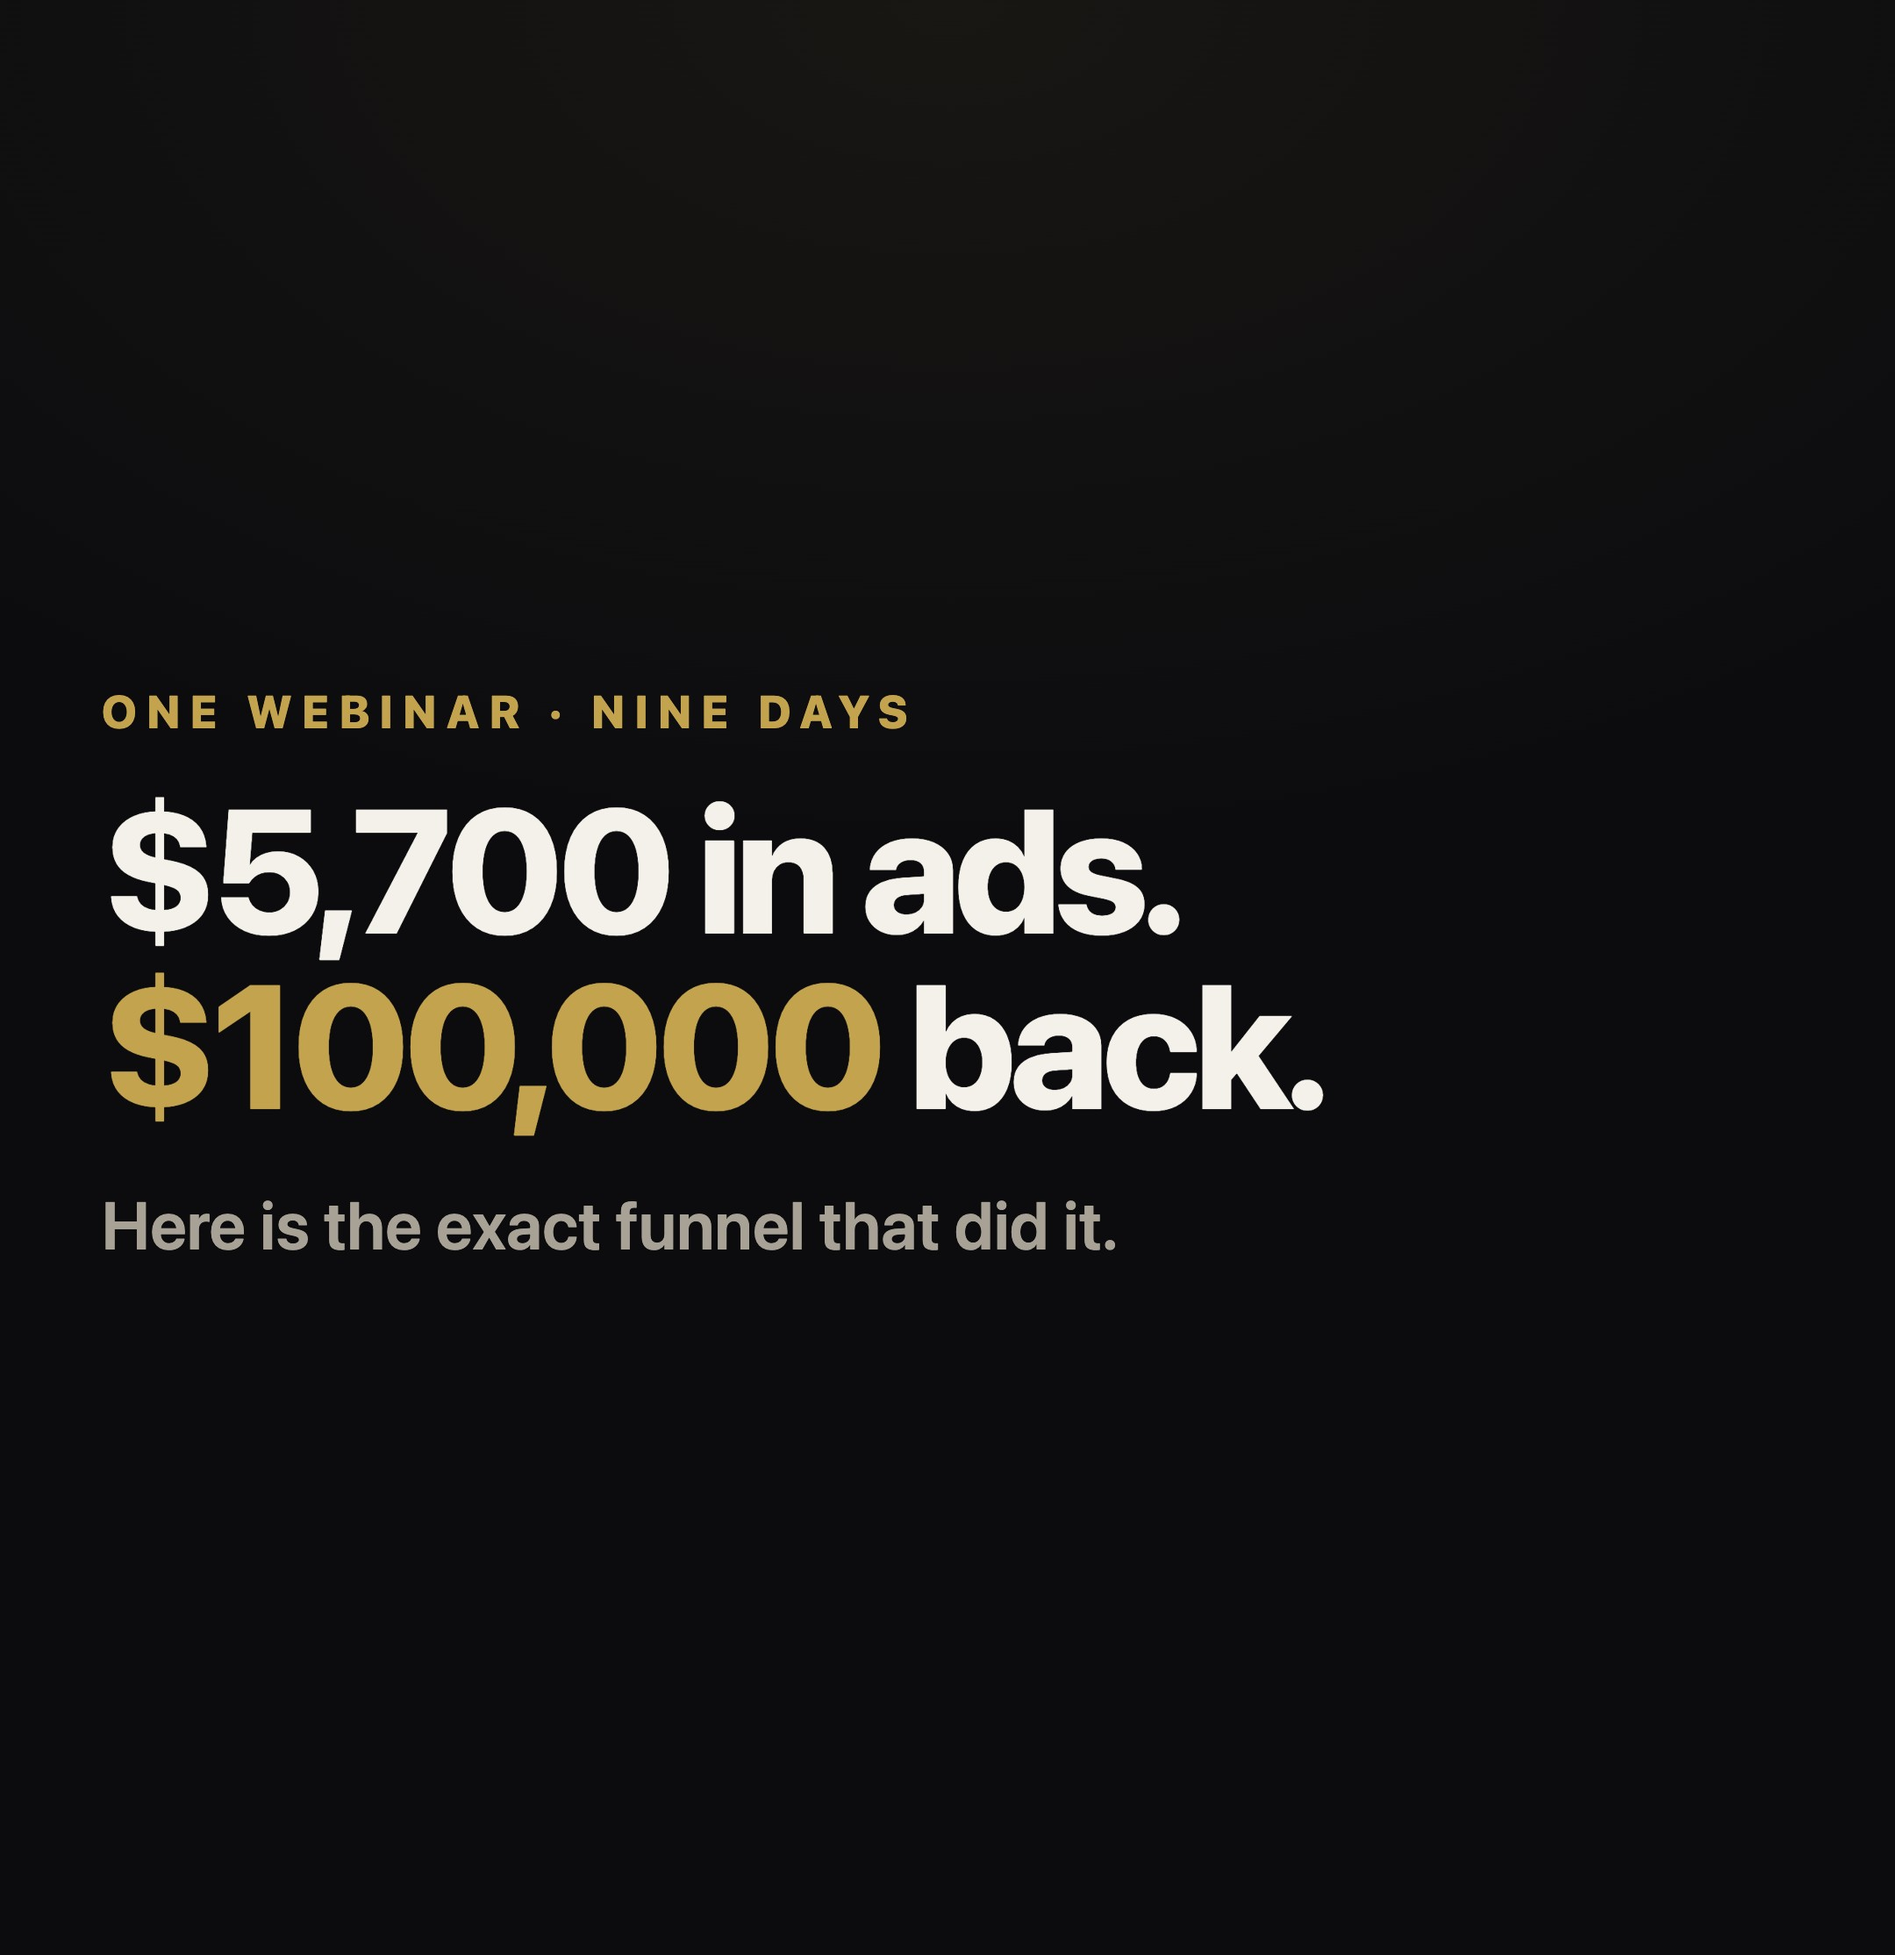
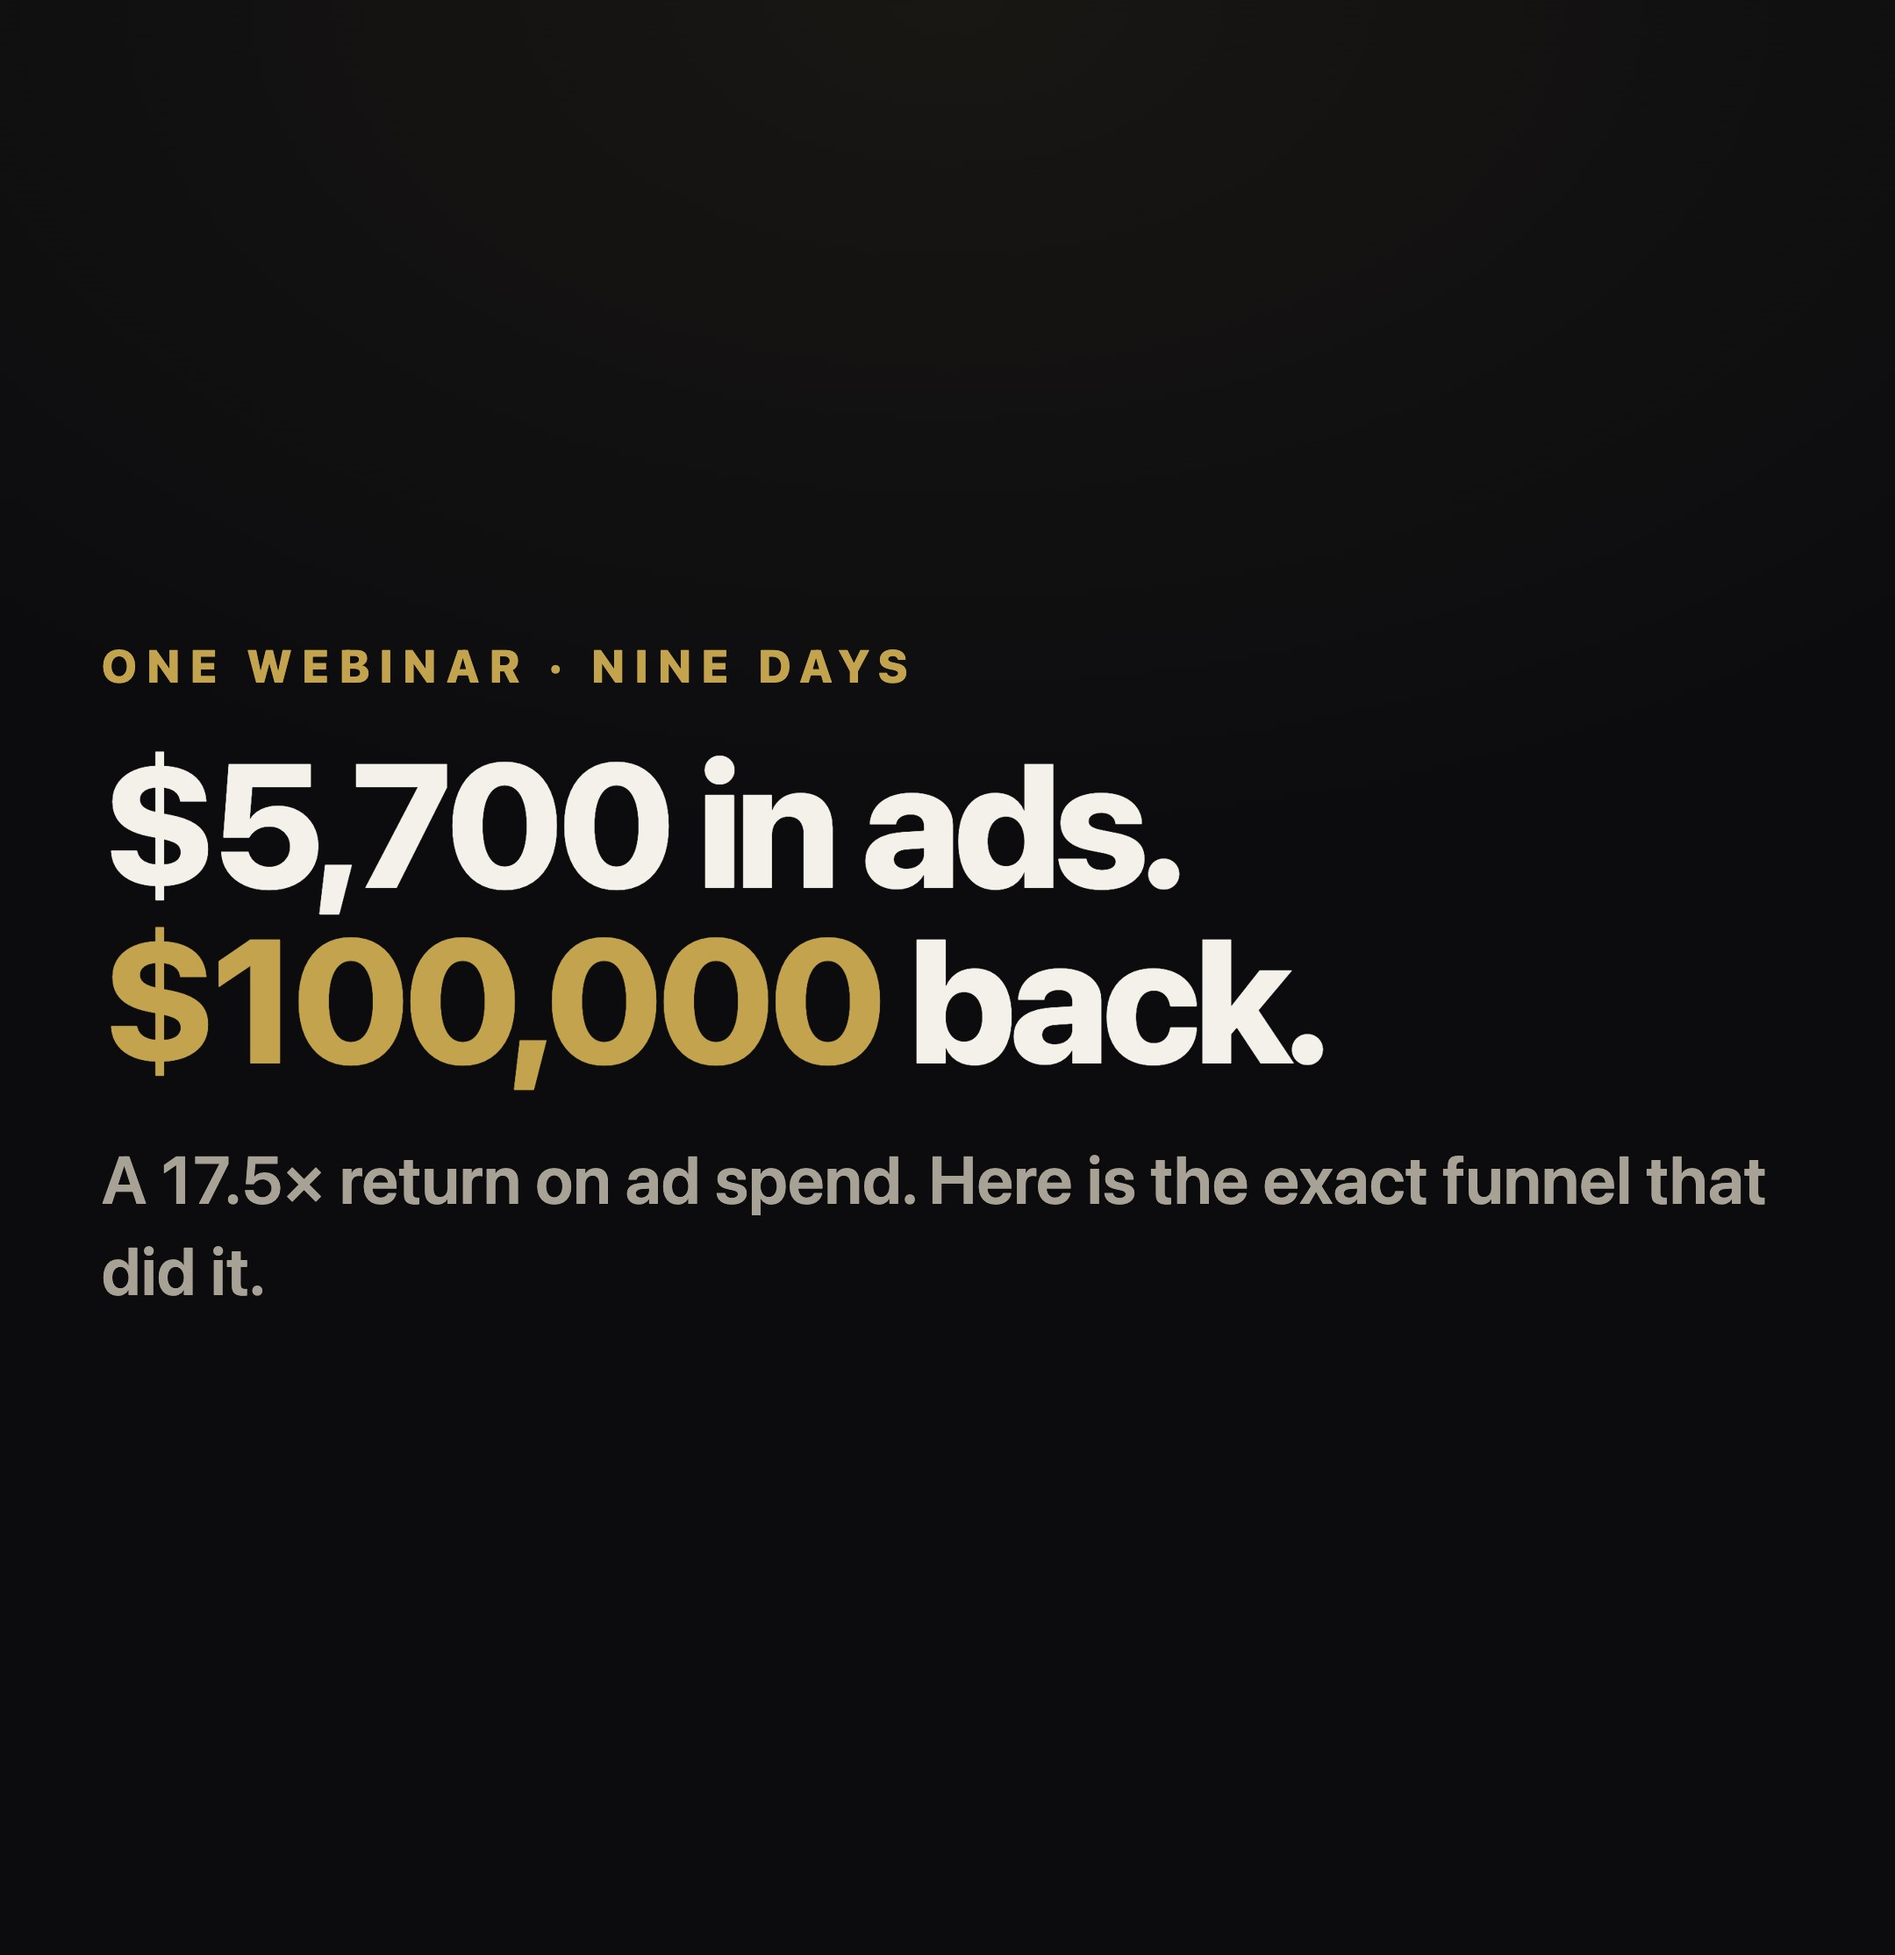
Funnel board: ROAS in the hook, native architecture diagram, real step-2 options, FUNNEL CTA

Changed region(s): [[0.031, 0.3097, 0.9306, 0.6813]]

diff --git a/frames-funnel.html b/frames-funnel.html
@@ -56,6 +56,17 @@
   .q .opts span{font-family:var(--mono);font-size:28px;font-weight:700;padding:12px 20px;border-radius:10px;
     border:2px solid rgba(255,255,255,.14);color:var(--mut)}
   .q .opts span.win{border-color:var(--gold);color:#0c0c0f;background:var(--gold)}
+
+  /* simplified architecture diagram, sized for the board */
+  .dg{display:flex;flex-direction:column;align-items:center;gap:0;margin-top:4px}
+  .dg .lvl{display:flex;gap:14px;justify-content:center;width:100%}
+  .dg .bx{border:3px solid rgba(196,163,79,.45);background:rgba(196,163,79,.08);border-radius:16px;
+    padding:20px 14px;text-align:center;flex:1}
+  .dg .bx.plain{border-color:rgba(255,255,255,.16);background:rgba(255,255,255,.03)}
+  .dg .bx .bt{font-size:30px;font-weight:800;line-height:1.15}
+  .dg .bx .bs{font-size:23px;color:var(--mut);font-weight:600;margin-top:7px;line-height:1.25}
+  .dg .cn{height:52px;width:100%;position:relative}
+  .dg .cn svg{position:absolute;inset:0;width:100%;height:100%;overflow:visible}
 </style>
 </head>
 <body>
@@ -64,22 +75,47 @@
 <div class="f" id="g1">
   <div class="eb">One webinar · nine days</div>
   <h1>$5,700 in ads. <span>$100,000</span> back.</h1>
-  <div class="sub">Here is the exact funnel that did it.</div>
+  <div class="sub">A 17.5&times; return on ad spend. Here is the exact funnel that did it.</div>
 </div>
 
-<!-- g2 · the whole funnel -->
-<div class="f" id="g2">
-  <div class="eb">The whole thing, five steps</div>
-  <div class="fun">
-    <div class="fs"><span class="ix">01</span><span class="nm">Meta ad</span><span class="vv">17 ads</span></div>
-    <div class="arw">▼</div>
-    <div class="fs hi"><span class="ix">02</span><span class="nm">Registration page</span><span class="vv">~190</span></div>
-    <div class="arw">▼</div>
-    <div class="fs"><span class="ix">03</span><span class="nm">Live webinar</span><span class="vv">90 min</span></div>
-    <div class="arw">▼</div>
-    <div class="fs"><span class="ix">04</span><span class="nm">Application &amp; call</span><span class="vv">16 held</span></div>
-    <div class="arw">▼</div>
-    <div class="fs hi"><span class="ix">05</span><span class="nm">Enrolment</span><span class="vv">6</span></div>
+<!-- g2 · the architecture, simplified for the board -->
+<div class="f" id="g2" style="padding:48px 44px">
+  <div class="eb">Every page behind it</div>
+  <div class="dg">
+    <div class="lvl">
+      <div class="bx"><div class="bt">A</div><div class="bs">winner</div></div>
+      <div class="bx plain"><div class="bt">B</div></div>
+      <div class="bx plain"><div class="bt">C</div></div>
+      <div class="bx plain"><div class="bt">D</div></div>
+    </div>
+    <div class="bs" style="font-size:24px;color:var(--gold);font-weight:800;letter-spacing:.14em;
+      text-transform:uppercase;margin-top:14px">4 opt-in pages, A/B tested</div>
+    <div class="cn"><svg viewBox="0 0 100 100" preserveAspectRatio="none">
+      <path d="M12,0 C12,60 50,40 50,100" stroke="#C4A34F" stroke-opacity=".5" stroke-width="1" fill="none"/>
+      <path d="M37,0 C37,60 50,40 50,100" stroke="#C4A34F" stroke-opacity=".5" stroke-width="1" fill="none"/>
+      <path d="M63,0 C63,60 50,40 50,100" stroke="#C4A34F" stroke-opacity=".5" stroke-width="1" fill="none"/>
+      <path d="M88,0 C88,60 50,40 50,100" stroke="#C4A34F" stroke-opacity=".5" stroke-width="1" fill="none"/>
+    </svg></div>
+    <div class="lvl">
+      <div class="bx"><div class="bt">Two-step form</div>
+        <div class="bs">name + email, then one revenue question</div></div>
+    </div>
+    <div class="cn"><svg viewBox="0 0 100 100" preserveAspectRatio="none">
+      <path d="M50,0 C50,55 26,45 26,100" stroke="#C4A34F" stroke-opacity=".5" stroke-width="1" fill="none"/>
+      <path d="M50,0 C50,55 74,45 74,100" stroke="#C4A34F" stroke-opacity=".5" stroke-width="1" fill="none"/>
+    </svg></div>
+    <div class="lvl">
+      <div class="bx"><div class="bt">Qualified</div><div class="bs">pixel fires</div></div>
+      <div class="bx plain"><div class="bt">Everyone else</div><div class="bs">no event</div></div>
+    </div>
+    <div class="cn"><svg viewBox="0 0 100 100" preserveAspectRatio="none">
+      <path d="M26,0 C26,55 50,45 50,100" stroke="#C4A34F" stroke-opacity=".5" stroke-width="1" fill="none"/>
+      <path d="M74,0 C74,55 50,45 50,100" stroke="#C4A34F" stroke-opacity=".5" stroke-width="1" fill="none"/>
+    </svg></div>
+    <div class="lvl">
+      <div class="bx"><div class="bt">Custom analytics page</div>
+        <div class="bs">opt-in rate per variant · cost per qualified · best ads</div></div>
+    </div>
   </div>
 </div>
 
@@ -112,8 +148,8 @@
 <!-- g6 · step one of the form -->
 <div class="f" id="g6">
   <div class="eb">Form, step one</div>
-  <h1 class="sm">Name and email. <span>Nothing else.</span></h1>
-  <div class="sub">No phone number. Every extra field here costs you registrations, and you can collect it at booking instead.</div>
+  <h1 class="sm">Name, email, <span>then it registers them.</span></h1>
+  <div class="sub">Keep it to what you will actually use. Every extra field on this step costs you registrations.</div>
 </div>
 
 <!-- g7 · step two, the qualifier -->
@@ -121,8 +157,8 @@
   <div class="eb">Form, step two · after they are registered</div>
   <div class="q">
     <div class="lab">One question</div>
-    <div class="qq">What is your current monthly revenue?</div>
-    <div class="opts"><span>$0–3k</span><span>$3–8k</span><span class="win">$8–15k</span><span class="win">$15k+</span></div>
+    <div class="qq">What's your current monthly revenue?<br><span style="font-size:28px;color:var(--mut);font-weight:600">(5 seconds)</span></div>
+    <div class="opts" style="flex-direction:column;gap:10px"><span>No business yet</span><span>Under €10K per month</span><span class="win">€10K to €50K</span><span class="win">€50K to €200K</span><span class="win">€200K+</span></div>
   </div>
   <div class="sub" style="font-size:34px">It goes <b style="color:var(--gold-soft)">after</b> the registration, never in front of it.
     Gate the registration on this and you lose half of them.</div>
@@ -144,7 +180,7 @@
 <div class="f" id="g9">
   <div class="eb">The whole build</div>
   <h1 class="sm">Comment <span>FUNNEL</span></h1>
-  <div class="sub">I'll send the page structure, the two-step form spec and the thank-you routing.</div>
+  <div class="sub">I'll send you our opt-in form SOPs: the page structure, the two-step spec and the thank-you routing.</div>
 </div>
 
 </body>

diff --git a/index.html b/index.html
@@ -105,15 +105,15 @@
     'funnel': {
       name: 'The funnel · $5,700 → $100,000',
       beats: [
-        {img:'img/g1.jpg', s:"Five thousand seven hundred dollars in ads came back as a hundred grand. Nine days, one webinar. Here's the actual funnel that did it."},
-        {img:'img/g2.jpg', s:"Five steps. Ad, registration page, live webinar, application call, enrolment. Seventeen ads, about a hundred and ninety registrations, sixteen calls held, six enrolments."},
+        {img:'img/g1.jpg', s:"Five thousand seven hundred dollars in ads came back as a hundred grand. Nine days, one webinar. That's a seventeen and a half times return. Here's the funnel that did it."},
+        {img:'img/g2.jpg', s:"This is the whole thing. Four opt-in pages A/B tested, all feeding one two-step form. The form splits into two thank-you pages. And everything lands on one custom analytics page."},
         {img:'img/g3.jpg', s:"This is the page. Every one of those ads pointed here, and it's the piece that decides who ends up in the room."},
         {img:'img/g4.jpg', s:"Every page we build uses this same order. Qualifying line above the headline. A headline that names why they're actually stuck. Three pillars. Date, time, location, price in one row. One button."},
         {img:'img/g5.jpg', s:"That top line is the one most people would delete. Its whole job is to make the wrong person leave. It put the opt-in rate up, not down."},
-        {img:'img/g6.jpg', s:"Form step one is name and email. That's it. No phone number. Every extra field here costs you registrations, and you can collect the phone at booking."},
+        {img:'img/g6.jpg', s:"Step one is short on purpose, and the moment it submits they are registered. Nothing that happens after it can cost you the lead."},
         {img:'img/g7.jpg', s:"Step two is one question, and it comes after they're already registered. Put it in front of the registration instead and you lose about half of them."},
         {img:'img/g8.jpg', s:"Then two thank-you pages. Qualified fires the conversion event, so Meta learns what your buyer looks like. Everyone else is still registered, they just don't get to teach the algorithm."},
-        {img:'img/g9.jpg', s:"Comment FUNNEL and I'll send you the page structure, the two-step form spec and the thank-you routing."}
+        {img:'img/g9.jpg', s:"Comment FUNNEL and I'll send you our opt-in form SOPs. The page structure, the two-step spec and the thank-you routing."}
       ]
     },
 
